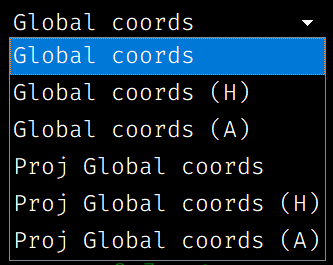
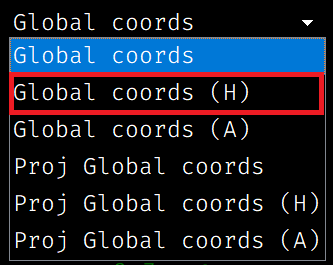
Update calculator doc

Changed region(s): [[0.03, 0.2717, 0.991, 0.4528]]

diff --git a/docs/source/userGuideCalc.rst b/docs/source/userGuideCalc.rst
@@ -1,4 +1,108 @@
 *User Guide*
 
-Probe Calibration Trajectory
-=============================
+Calculator
+------------
+
+The `Calculator` widget allows you to convert between global and local coordinates 
+for different stages. It also helps you manage stage movements and view global 
+coordinates with reticle metadata.
+
+.. image:: _static/_userGuide/_calc/0.png
+   :alt: Calculator Overview
+   :width: 500px
+   :align: center
+
+-----
+
+1. **Coordinate Conversion**
+
+The `Calculator` enables you to convert between **global** and **local** 
+coordinates for each stage. Based on whether global or local coordinates 
+are provided, the calculator determines the direction of the transformation:
+
+- **Global to Local**: Input global coordinates (X, Y, Z) and click the "Convert (↔)" button to see the corresponding local coordinates.
+
+.. raw:: html
+
+    <div class="inline-images" style="text-align: center;">
+        <div style="display: inline-flex; align-items: center; justify-content: center;">
+            <div style="text-align: center;">
+                <img src="_static/_userGuide/_calc/1.png" width="500px"/>
+            </div>
+        </div>
+        <br>
+        <div style="margin: 0 10px; font-size: 35px;">→</div>
+        <br>
+        <div style="text-align: center;">
+            <div style="text-align: center;">
+                <img src="_static/_userGuide/_calc/2.png" width="500px"/>
+            </div>
+        </div>
+    </div>
+    <br>
+
+- **Local to Global**: Input local coordinates (X, Y, Z) and click the "Convert (↔)" button to see the corresponding global coordinates.
+
+.. raw:: html
+
+    <div class="inline-images" style="text-align: center;">
+        <div style="display: inline-flex; align-items: center; justify-content: center;">
+            <div style="text-align: center;">
+                <img src="_static/_userGuide/_calc/3.png" width="500px"/>
+            </div>
+        </div>
+        <br>
+        <div style="margin: 0 10px; font-size: 35px;">→</div>
+        <br>
+        <div style="text-align: center;">
+            <div style="text-align: center;">
+                <img src="_static/_userGuide/_calc/4.png" width="500px"/>
+            </div>
+        </div>
+    </div>
+    <br>
+
+-----
+
+2. **Selecting a Reticle**
+
+   If a reticle is selected, the calculator will automatically apply 
+   reticle-specific metadata to the global coordinates during the conversion.
+
+   You can select a reticle from the **Global Coords** dropdown. If a reticle 
+   is selected, its metadata (like offsets and rotations) will be applied to 
+   any global coordinates, ensuring that your conversions account for the 
+   reticle's alignment.
+
+   - **'Global coords' Selected**: The calculator will convert coordinates without applying any reticle adjustments.
+
+   - **'Global coords (_reticle_name_)' Selected**: The selected reticle's metadata, including rotation and offset, will be applied during conversions.
+
+.. raw:: html
+
+    <div class="inline-images" style="text-align: center;">
+        <div style="display: inline-flex; align-items: center; justify-content: center;">
+            <div style="text-align: center;">
+                <img src="_static/_userGuide/_calc/12.png" width="150px"/>
+            </div>
+            <div style="margin: 0 10px; font-size: 18px;">→</div>
+            <div style="text-align: center;">
+                <img src="_static/_userGuide/_calc/5.png" width="400px"/>
+            </div>
+        </div>
+    </div>
+    <br>
+
+-----
+
+3. **Stage Movement**
+
+   After converting coordinates, you can move the stage to the desired local coordinates. 
+   The `moveStageXY0` button allows you to send the stage to a specific (X, Y, 0) position, which is the highest position.
+
+   First, it moves to z = 0 (the highest position), and then it moves to the desired (X, Y) position to avoid collisions with the reticle surface.
+
+.. image:: _static/_userGuide/_calc/10.png
+    :alt: Calculator Overview
+    :width: 500px
+    :align: center

diff --git a/docs/source/index.rst b/docs/source/index.rst
@@ -22,6 +22,7 @@ Contents
    userGuide
    userGuideTrajectory
    userGuideReticleMetadata
+   userGuideCalc
    FAQ
 
 Programmer's Guide

diff --git a/docs/source/userGuideReticleMetadata.rst b/docs/source/userGuideReticleMetadata.rst
@@ -1,3 +1,5 @@
+*User Guide*
+
 Reticle Metadata
 ----------------
 
